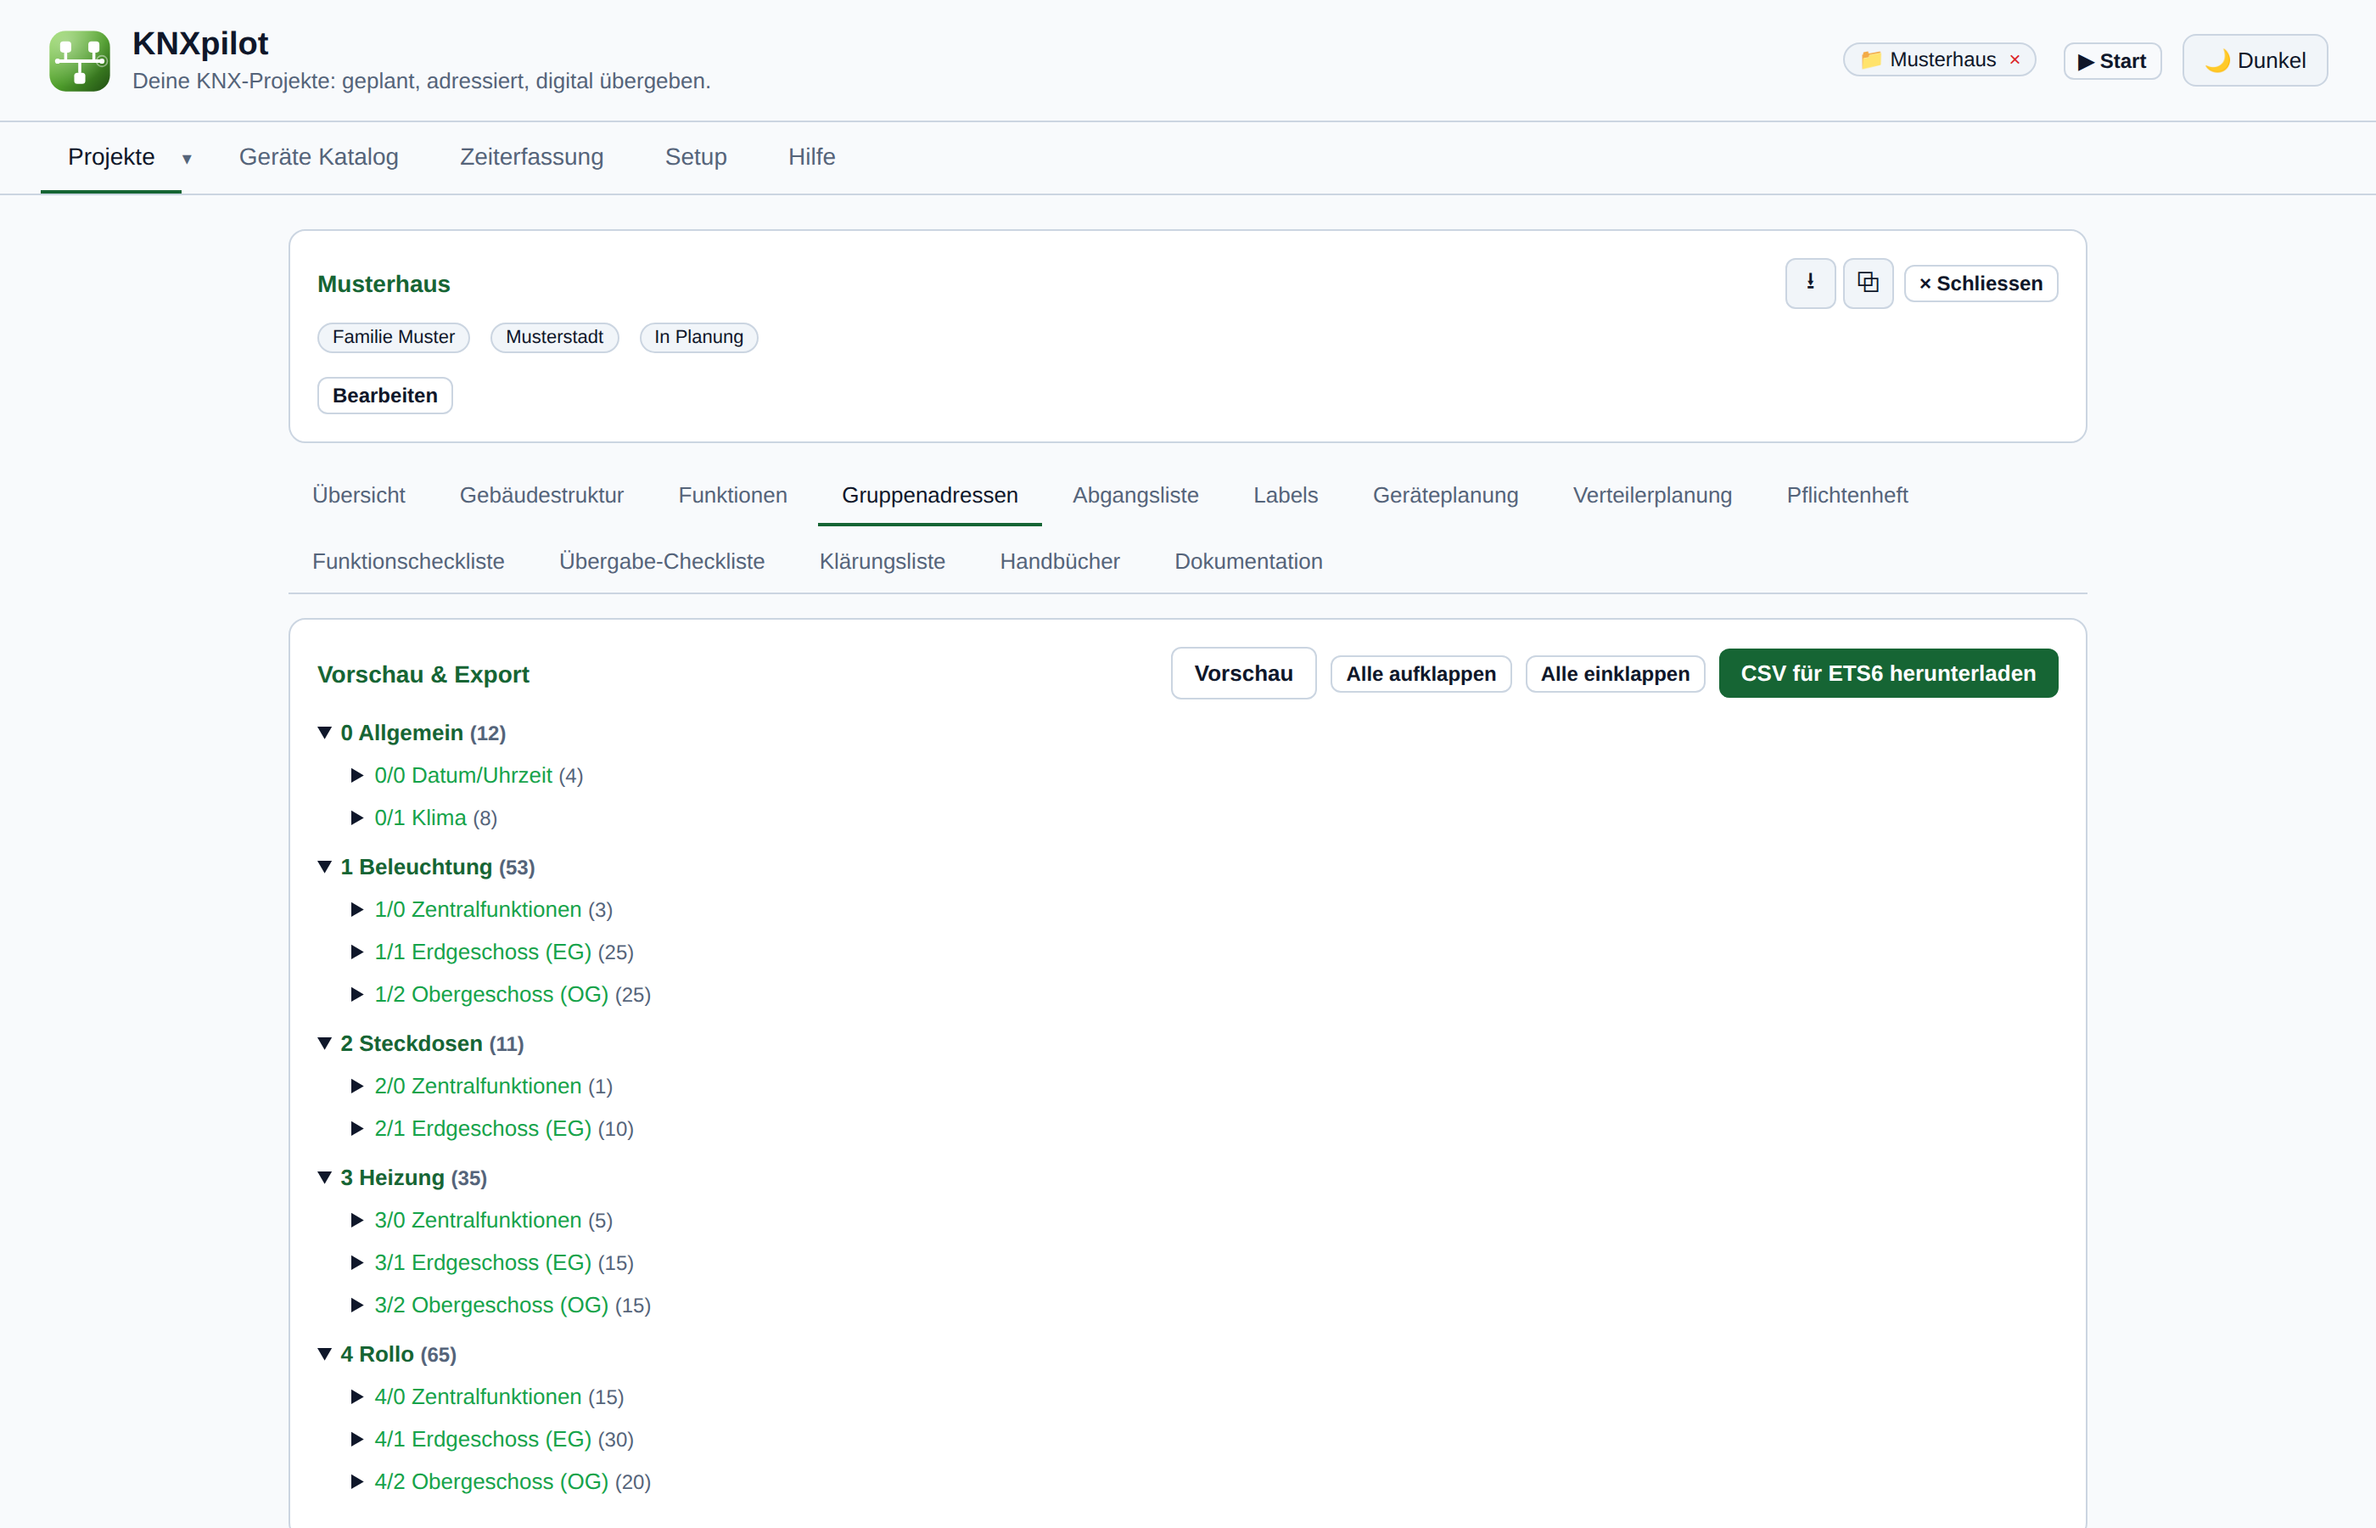
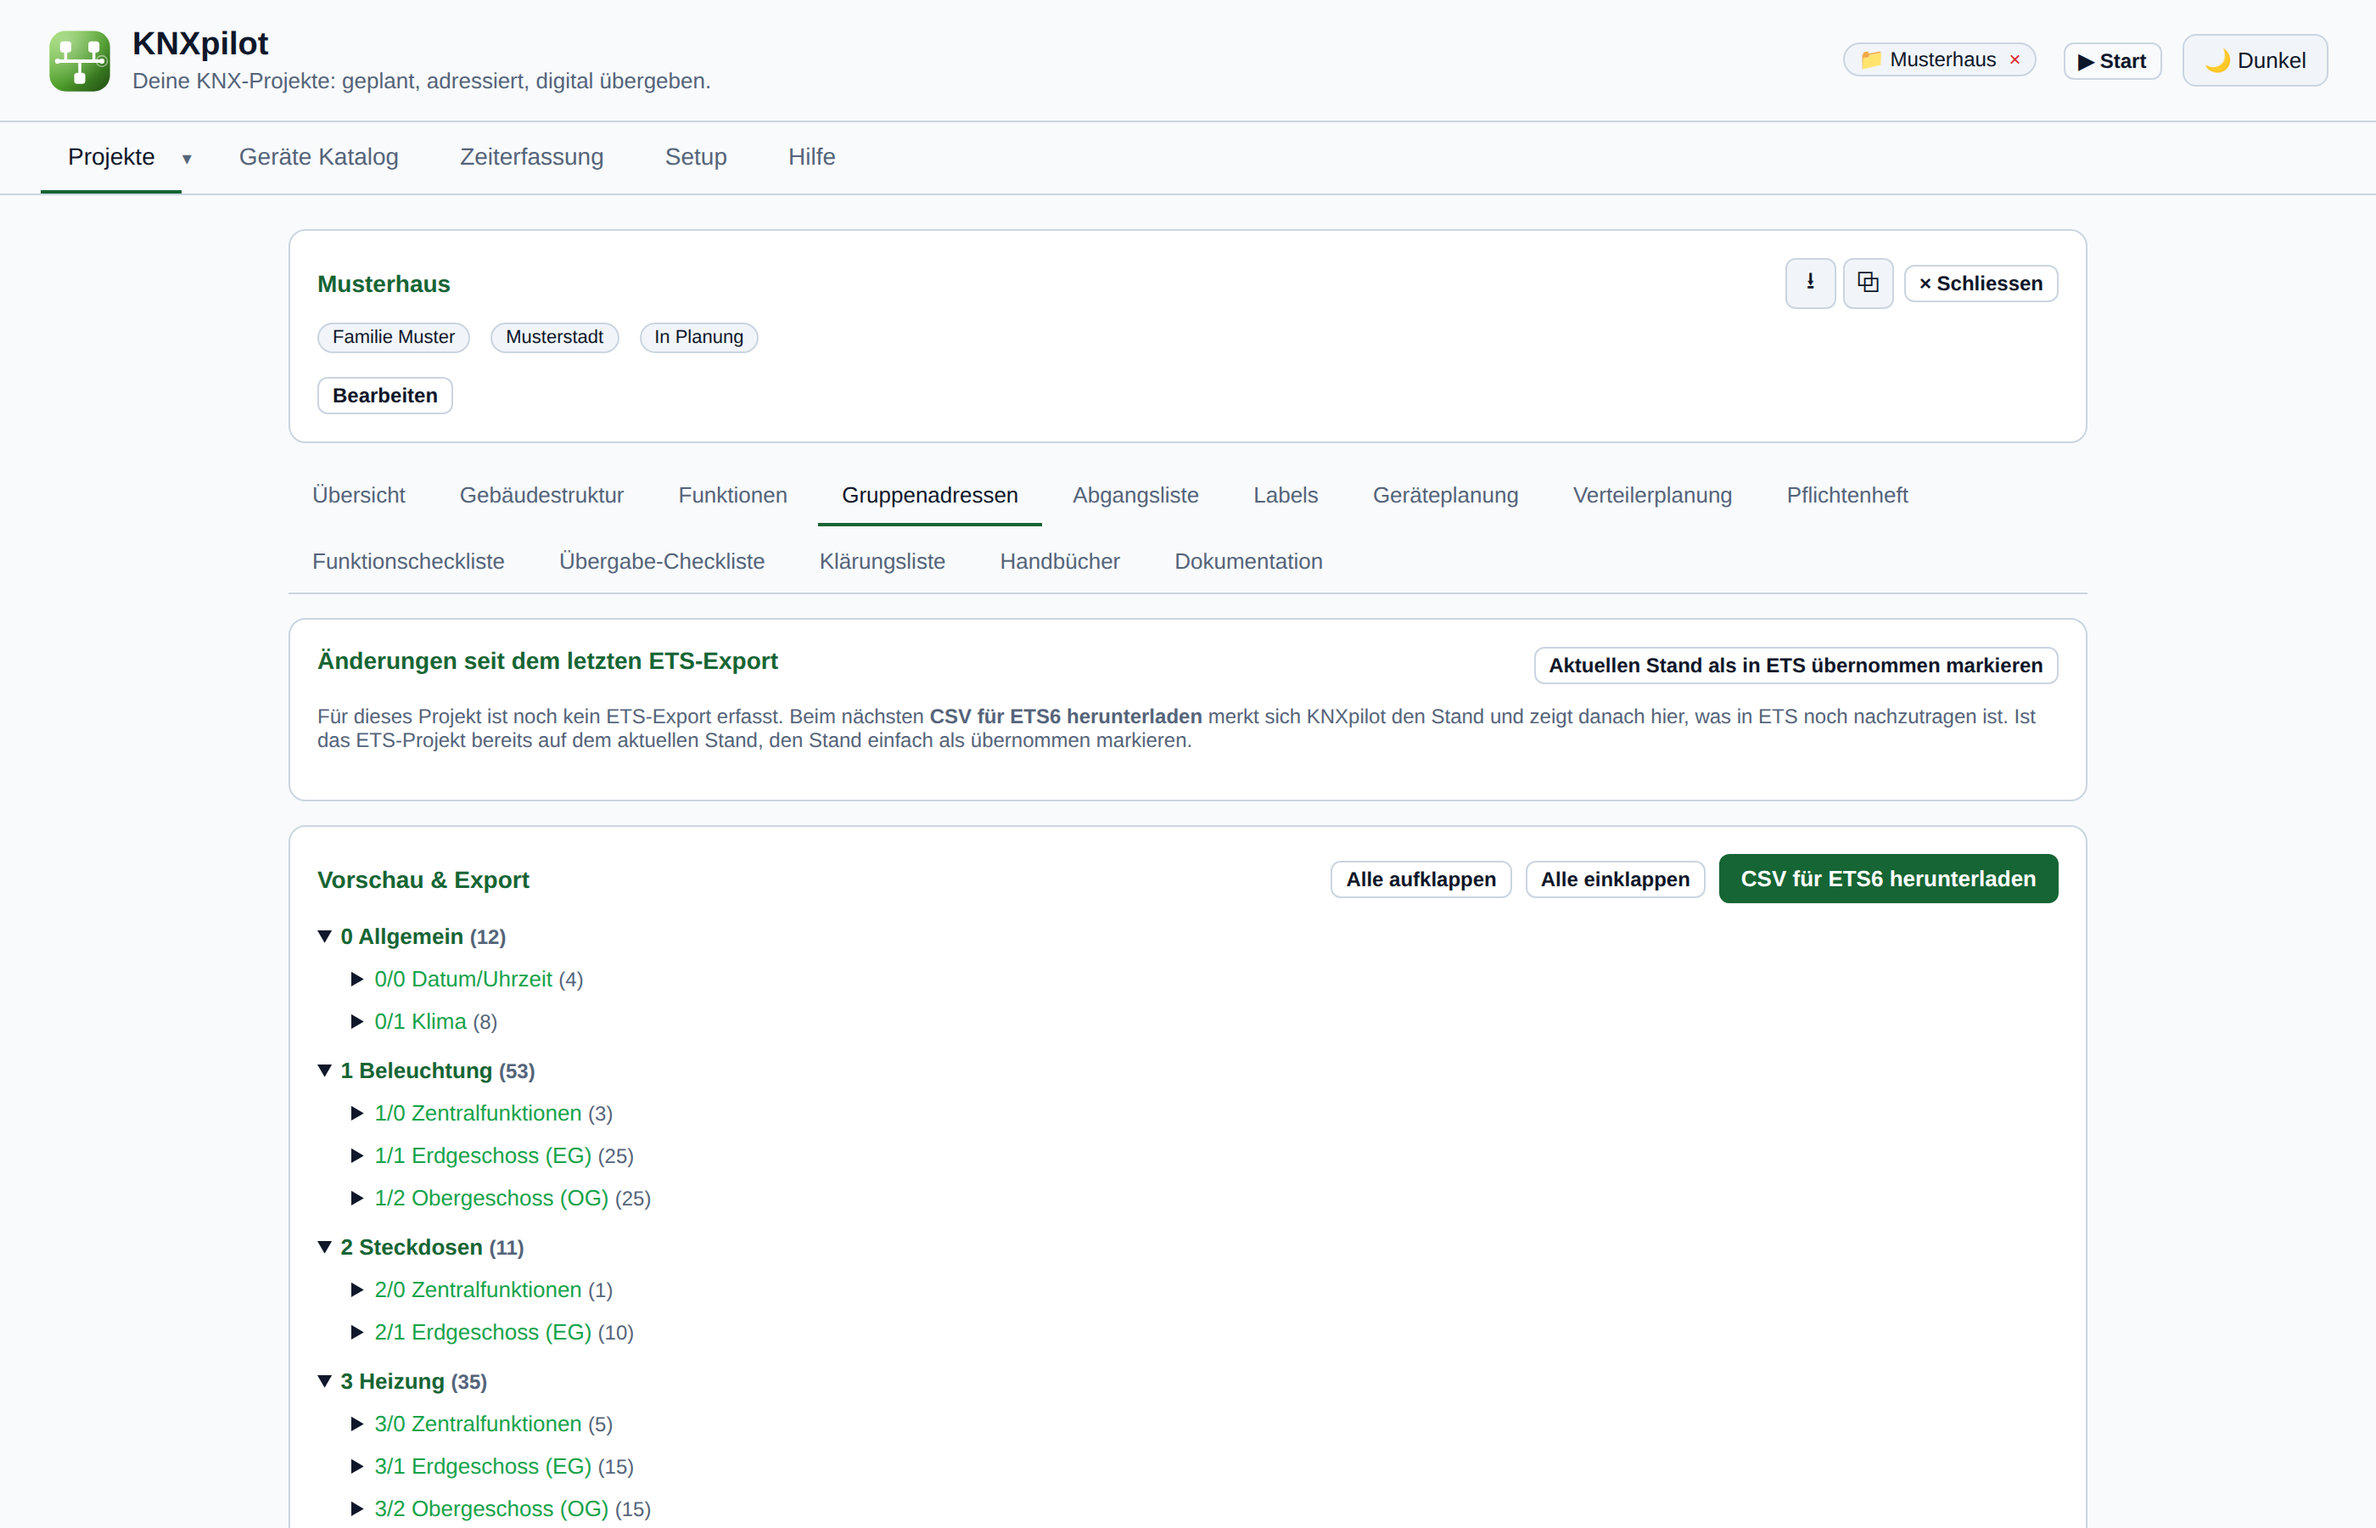
README: refreshed screenshots, Gebäudestruktur tree and Dokumentation added

Changed region(s): [[0.1243, 0.4044, 0.87, 0.9956], [0.5593, 0.56, 0.87, 0.5911]]

diff --git a/README.md b/README.md
@@ -15,17 +15,22 @@ Vorlagen erzeugt.
 ## Screenshots
 
 <img src="docs/screenshots/uebersicht.png" width="800" alt="Projektübersicht">
+<img src="docs/screenshots/gebaeudestruktur.png" width="800" alt="Gebäudestruktur als Baum mit Drag &amp; Drop">
 <img src="docs/screenshots/funktionen.png" width="800" alt="Räume und Funktionen zuweisen">
 <img src="docs/screenshots/gruppenadressen.png" width="800" alt="Gruppenadressen-Baum">
 <img src="docs/screenshots/abgangsliste.png" width="800" alt="Abgangsliste mit Kanalübersicht">
 <img src="docs/screenshots/funktionscheckliste.png" width="800" alt="Funktionscheckliste zum digitalen Abhaken vor Ort">
 <img src="docs/screenshots/uebergabe-checkliste.png" width="800" alt="Übergabe-Checkliste mit Ja/Nein/Nicht-nötig-Status">
+<img src="docs/screenshots/dokumentation.png" width="800" alt="Dokumentation mit Inhalt und Stand je Kapitel">
 
 ## Funktionsumfang
 
 - **Adressierung nach festem Schema** — Hauptgruppe = Funktionskategorie,
   Mittelgruppe = Zentral/je Geschoss, Untergruppe = Adressblock je Punkt,
   mit reservierten `res`-Plätzen für spätere Erweiterung.
+- **Gebäudestruktur als Baum** — Geschoss → Raum → Verteiler per Drag &
+  Drop, optional mehrere KNX-Linien (z.B. je Wohnung) mit physikalischer
+  Adressvergabe je Linie.
 - **ETS6-kompatibler CSV-Export/-Import**, byte-genau gegen echte
   ETS6-Exporte geprüft.
 - **Abgangsliste** — automatische Kanalzuordnung Aktor ↔ Funktion je

diff --git a/CHANGELOG.md b/CHANGELOG.md
@@ -16,6 +16,8 @@ restructuring below — history before that is available via `git log`.
   Übergabe-Checkliste's). They appear in the Funktionscheckliste PDF and
   the Dokumentation chapter; the Dokumentation's Inhalt card flags a
   missing Systemintegrator signature.
+- **README screenshots refreshed**, plus new ones of the Gebäudestruktur
+  tree and the Dokumentation tab.
 - **"Inhalt" and "Vorschau" on the Pflichtenheft and Dokumentation tabs** —
   both tabs used to show just two buttons. They now list the PDF's
   sections/chapters in order, each with whether it's included and what's
